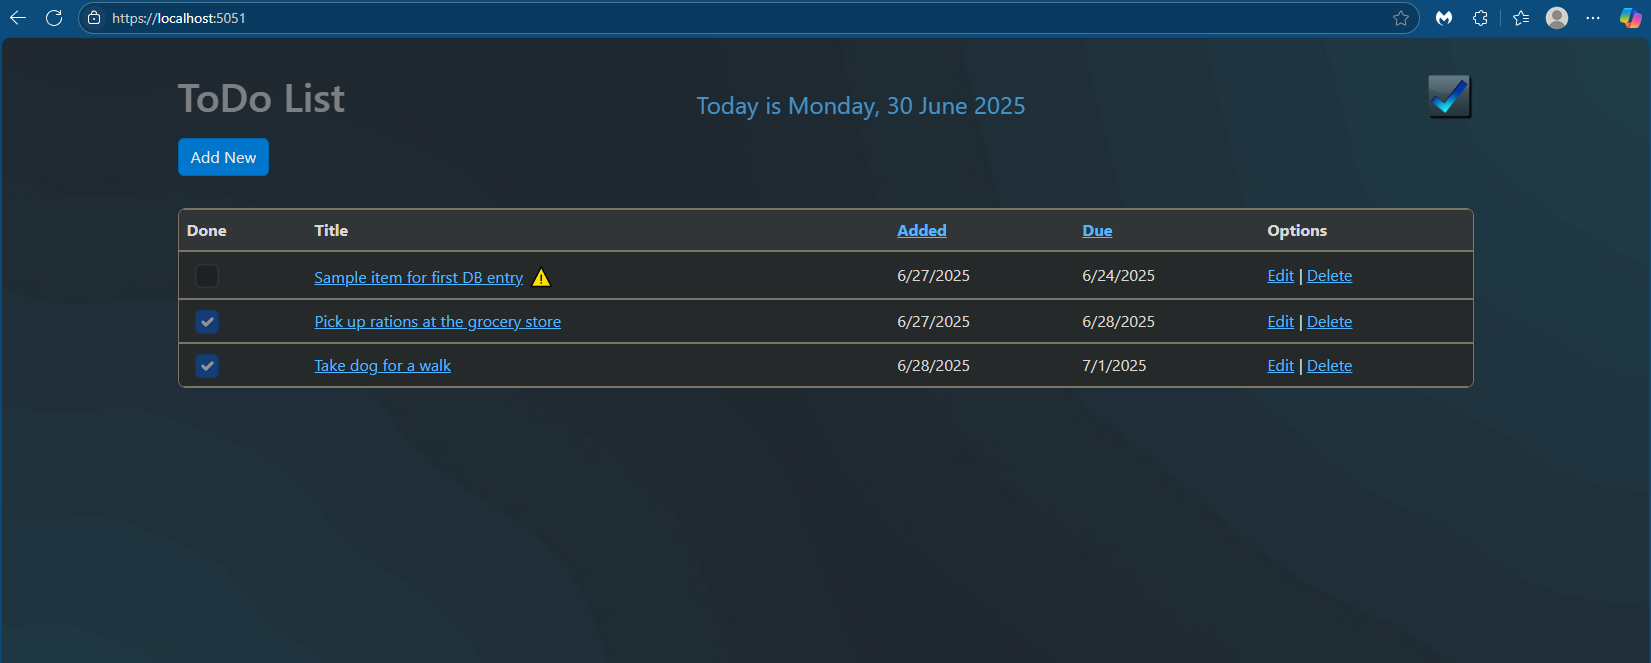
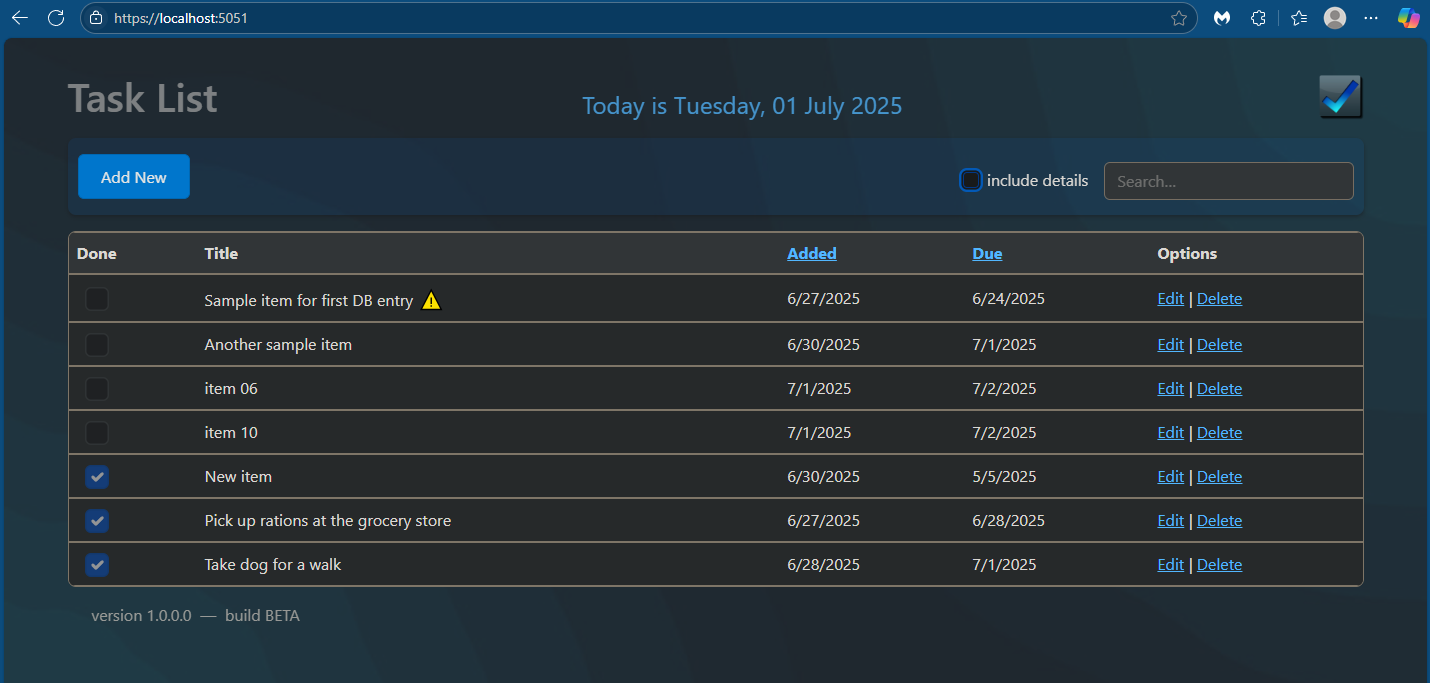
enhancements

diff --git a/Controllers/TodoItemsController.cs b/Controllers/TodoItemsController.cs
@@ -74,6 +74,9 @@ namespace TodoWebApp.Controllers
                 // This can be done in the cshtml, just an example of a different way to implant view data back to the page.
                 ViewData["StatusMessage"] = $"Today is {DateTime.Now.ToString("dddd, dd MMMM yyyy")}";
             }
+            
+            ViewData["AppBuild"] = $"build {Constants.AppBuild}";
+            ViewData["AppVersion"] = $"version {Constants.GetCurrentAssemblyVersion()}";
 
             ViewData["CurrentSort"] = sortOrder;
             ViewData["DueSortParm"] = sortOrder == "Due" ? "due_desc" : "Due";
@@ -262,6 +265,53 @@ namespace TodoWebApp.Controllers
             await _db.SaveChangesAsync();
             
             return RedirectToAction(nameof(Index));
+        }
+
+
+        [HttpGet]
+        public async Task<IActionResult> SearchOriginal(string term)
+        {
+            if (string.IsNullOrWhiteSpace(term))
+                return Json(Array.Empty<object>());
+
+            // find up to 5 items whose title contains the term
+            var results = await _db.TodoItems
+                .Where(t => t.Title.Contains(term))
+                .OrderBy(t => t.Title)
+                .Select(t => new { t.Id, t.Title })
+                .Take(5)
+                .ToListAsync();
+
+            return Json(results);
+        }
+
+        [HttpGet]
+        public async Task<IActionResult> Search(string term, bool includeDetails = false)
+        {
+            if (string.IsNullOrWhiteSpace(term))
+                return Json(Array.Empty<object>());
+
+            IQueryable<TodoItem> query = _db.TodoItems;
+
+            if (includeDetails)
+            {
+                query = query.Where(t =>
+                    t.Title.Contains(term) ||
+                    t.Details.Contains(term));
+            }
+            else
+            {
+                query = query.Where(t =>
+                    t.Title.Contains(term));
+            }
+
+            var results = await query
+                .OrderBy(t => t.Title)
+                .Select(t => new { t.Id, t.Title })
+                .Take(5)
+                .ToListAsync();
+
+            return Json(results);
         }
 
         [ResponseCache(Duration = 0, Location = ResponseCacheLocation.None, NoStore = true)]

diff --git a/Constants.cs b/Constants.cs
@@ -1,0 +1,13 @@
+namespace TodoWebApp
+{
+    public static class Constants
+    {
+        const string defaultComp = "TodoWebApp";
+        public const string AppBuild = "BETA";
+        public static string GetCurrentNamespace() => System.Reflection.MethodBase.GetCurrentMethod()?.DeclaringType?.Namespace ?? defaultComp;
+        public static string GetCurrentFullName() => System.Reflection.MethodBase.GetCurrentMethod()?.DeclaringType?.Assembly.FullName ?? defaultComp;
+        public static string GetCurrentAssemblyName() => System.Reflection.Assembly.GetExecutingAssembly().GetName().Name ?? defaultComp;
+        public static Version GetCurrentAssemblyVersion() => System.Reflection.Assembly.GetExecutingAssembly().GetName().Version ?? new Version(); // Returns the AssemblyVersion, not the FileVersion.
+
+    }
+}

diff --git a/Program.cs b/Program.cs
@@ -6,6 +6,7 @@ using Microsoft.EntityFrameworkCore.SqlServer;
 using TodoWebApp.Logging;
 using TodoWebApp.Models;
 
+
 var builder = WebApplication.CreateBuilder(args);
 
 #region [Process any cmd line args]
